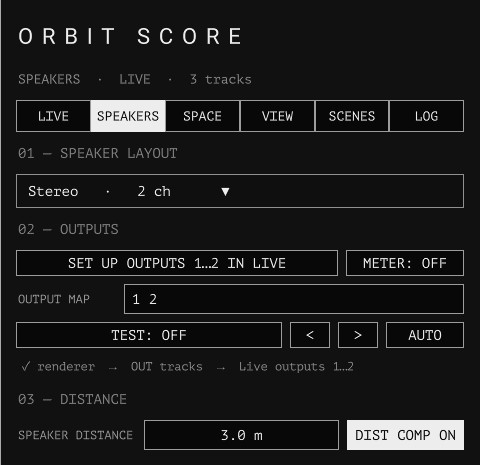
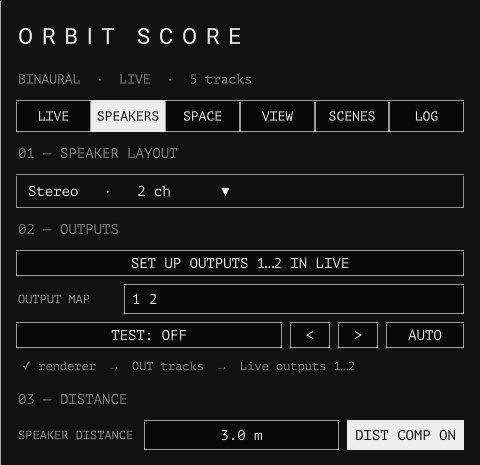
Wiki: drop METER, new SPEAKERS screenshot
Claude-Session: https://claude.ai/code/session_01TKc1CDoWRtRwsAG1rPAYtG

diff --git a/orbitscore-wiki/index.html b/orbitscore-wiki/index.html
@@ -249,7 +249,7 @@ footer{font:11.5px/1.6 var(--f-mono);color:var(--mid);border-top:1px solid var(-
     <div class="card"><div class="k">Windows</div><div class="v">ASIO</div><p>1 · Install the interface's <strong>ASIO driver</strong> (MME / WDM rarely open more than two channels).<br>2 · Live → Settings → Audio: <strong>Driver Type ASIO</strong>, Audio Device = the interface, 48000 Hz.<br>Only one program can open an ASIO device at a time.</p></div>
   </div>
   <p>Then, on both: Live → Settings → Audio → <strong>Output Config</strong>, enable the pairs that cover the speakers (1/2, 3/4 …). Dante (Dante Virtual Soundcard) and MADI systems appear as one device with 64 channels and are chosen the same way; Orbit Score drives up to 64 speakers.</p>
-  <figure><img src="media/ui-speakerout.jpg?v=1111b" alt="Sidebar SPEAKERS tab: 01 SPEAKER LAYOUT, 02 OUTPUTS with SET UP OUTPUTS, METER, OUTPUT MAP, TEST and status, 03 DISTANCE with SPEAKER DISTANCE and DIST COMP" loading="lazy" width="480" height="465" style="max-width:480px"><figcaption>FIG. 1.1 — SPEAKERS tab after SET UP: ✓ renderer → OUT tracks → Live outputs</figcaption></figure>
+  <figure><img src="media/ui-speakerout.jpg?v=1111c" alt="Sidebar SPEAKERS tab: 01 SPEAKER LAYOUT, 02 OUTPUTS with SET UP OUTPUTS, OUTPUT MAP, TEST and status, 03 DISTANCE with SPEAKER DISTANCE and DIST COMP" loading="lazy" width="480" height="465" style="max-width:480px"><figcaption>FIG. 1.1 — SPEAKERS tab after SET UP: ✓ renderer → OUT tracks → Live outputs</figcaption></figure>
   <div class="note"><b>NOTE</b>Live's audio settings cannot be changed through the Live API, so the driver, device, sample rate and Output Config are set by hand once. Everything inside the set — OUT tracks, routing — is done by SET UP OUTPUTS.</div>
   </section>
 </section>
@@ -318,7 +318,7 @@ footer{font:11.5px/1.6 var(--f-mono);color:var(--mid);border-top:1px solid var(-
   <div class="tw"><table>
     <tr><th>Tab</th><th>Contents</th></tr>
     <tr><td>LIVE</td><td><strong>01 MONITOR</strong> Off / Binaural (HP) / Speakers · MASTER volume, MUTE (keeps the slider value) · <strong>02 SOURCE</strong> LIVE / DEMO, Live's DSP state, OSC PORT · <strong>TRACKS</strong> show (eye), name label (Aa), mute (M), colour, level</td></tr>
-    <tr><td>SPEAKERS</td><td><strong>01 SPEAKER LAYOUT</strong> · <strong>02 OUTPUTS</strong> SET UP, METER, OUTPUT MAP, TEST, status · <strong>03 DISTANCE</strong> SPEAKER DISTANCE, DIST COMP (see below)</td></tr>
+    <tr><td>SPEAKERS</td><td><strong>01 SPEAKER LAYOUT</strong> · <strong>02 OUTPUTS</strong> SET UP, OUTPUT MAP, TEST, status · <strong>03 DISTANCE</strong> SPEAKER DISTANCE, DIST COMP (see below)</td></tr>
     <tr><td>SPACE</td><td><strong>01 PANNING MODEL</strong> VBAP / DBAP / AMBI / WFS · <strong>02 ROOM</strong> presets, REVERB, REFLECTIONS, EAR HEIGHT (<a href="#render">06</a>)</td></tr>
     <tr><td>VIEW</td><td><strong>01 CAMERA</strong> auto orbit, reset view, theme · <strong>02 SHOW</strong> names, ears, head, dome guide, ROOM, TRAIL</td></tr>
     <tr><td>SCENES</td><td>The scene list (<a href="#scenes">05</a>)</td></tr>
@@ -339,7 +339,6 @@ footer{font:11.5px/1.6 var(--f-mono);color:var(--mid);border-top:1px solid var(-
     <tr><td>TEST · &lt; · &gt; · AUTO</td><td>Pink noise from one speaker at a time (objects silent meanwhile); the 3D view numbers the speakers</td></tr>
     <tr><td>SPEAKER DISTANCE</td><td>You to the speaker ring in metres — the scale for reflections, Doppler, near field and WFS. Measure it</td></tr>
     <tr><td>DIST COMP</td><td>Speakers at different distances (a measured custom layout): nearer ones are delayed and turned down so all arrive like the farthest. Off in WFS, where the button is PRE-FILTER</td></tr>
-    <tr><td>METER</td><td>Per-speaker levels, only if the feeds also reach a device TouchDesigner can read (<a href="#archive">Archive</a>). Usually off</td></tr>
   </table></div>
 
   <h3>Track colour</h3>
@@ -597,7 +596,7 @@ footer{font:11.5px/1.6 var(--f-mono);color:var(--mid);border-top:1px solid var(-
 <section id="archive">
   <div class="cap">14 — Archive</div>
   <h2>Virtual audio devices (BlackHole · JACK)</h2>
-  <p>Until v9.4 this wiki routed the speaker feeds through a virtual audio device. That is not needed: Live sends them to the interface directly (<a href="#setup-out">01.3</a>). A virtual device is only useful to <strong>test without an interface</strong>, to <strong>hand the feeds to another application</strong>, or for <strong>METER</strong>.</p>
+  <p>Until v9.4 this wiki routed the speaker feeds through a virtual audio device. That is not needed: Live sends them to the interface directly (<a href="#setup-out">01.3</a>). A virtual device is only useful to <strong>test without an interface</strong> or to <strong>hand the feeds to another application</strong>.</p>
   <h3>macOS — BlackHole</h3>
   <ol>
     <li>Install <a href="https://existential.audio/blackhole/" rel="noopener" target="_blank">BlackHole</a> (16 ch; 64 ch for dome layouts).</li>
@@ -721,7 +720,7 @@ footer{font:11.5px/1.6 var(--f-mono);color:var(--mid);border-top:1px solid var(-
     <div class="card"><div class="k">Windows</div><div class="v">ASIO</div><p>1 · 인터페이스의 <strong>ASIO 드라이버</strong> 설치 (MME / WDM은 대개 2채널까지만 열린다).<br>2 · Live → 설정 → Audio: <strong>Driver Type ASIO</strong>, Audio Device = 인터페이스, 48000 Hz.<br>ASIO 장치는 한 번에 한 프로그램만 열 수 있다.</p></div>
   </div>
   <p>그다음 공통: Live → 설정 → Audio → <strong>Output Config</strong>에서 스피커를 덮는 쌍(1/2, 3/4 …)을 켠다. Dante(Dante Virtual Soundcard)나 MADI는 64채널짜리 장치 하나로 보이고 똑같이 고르면 된다. Orbit Score는 스피커 64개까지 구동한다.</p>
-  <figure><img src="media/ui-speakerout.jpg?v=1111b" alt="사이드바 SPEAKERS 탭: 01 SPEAKER LAYOUT, 02 OUTPUTS(SET UP OUTPUTS, METER, OUTPUT MAP, TEST, 상태), 03 DISTANCE(SPEAKER DISTANCE, DIST COMP)" loading="lazy" width="480" height="465" style="max-width:480px"><figcaption>FIG. 1.1 — SET UP 후 SPEAKERS 탭: ✓ renderer → OUT tracks → Live outputs</figcaption></figure>
+  <figure><img src="media/ui-speakerout.jpg?v=1111c" alt="사이드바 SPEAKERS 탭: 01 SPEAKER LAYOUT, 02 OUTPUTS(SET UP OUTPUTS, OUTPUT MAP, TEST, 상태), 03 DISTANCE(SPEAKER DISTANCE, DIST COMP)" loading="lazy" width="480" height="465" style="max-width:480px"><figcaption>FIG. 1.1 — SET UP 후 SPEAKERS 탭: ✓ renderer → OUT tracks → Live outputs</figcaption></figure>
   <div class="note"><b>NOTE</b>Live의 오디오 설정은 Live API로 바꿀 수 없어서 드라이버·장치·샘플레이트·Output Config는 처음 한 번 손으로 맞춘다. 세트 안의 OUT 트랙과 라우팅은 SET UP OUTPUTS가 해준다.</div>
   </section>
 </section>
@@ -790,7 +789,7 @@ footer{font:11.5px/1.6 var(--f-mono);color:var(--mid);border-top:1px solid var(-
   <div class="tw"><table>
     <tr><th>탭</th><th>내용</th></tr>
     <tr><td>LIVE</td><td><strong>01 MONITOR</strong> Off / Binaural (HP) / Speakers · MASTER 볼륨, MUTE (슬라이더 값 유지) · <strong>02 SOURCE</strong> LIVE / DEMO, Live DSP 상태, OSC PORT · <strong>TRACKS</strong> 보이기(눈), 이름표(Aa), 뮤트(M), 색, 레벨</td></tr>
-    <tr><td>SPEAKERS</td><td><strong>01 SPEAKER LAYOUT</strong> · <strong>02 OUTPUTS</strong> SET UP, METER, OUTPUT MAP, TEST, 상태 · <strong>03 DISTANCE</strong> SPEAKER DISTANCE, DIST COMP (아래)</td></tr>
+    <tr><td>SPEAKERS</td><td><strong>01 SPEAKER LAYOUT</strong> · <strong>02 OUTPUTS</strong> SET UP, OUTPUT MAP, TEST, 상태 · <strong>03 DISTANCE</strong> SPEAKER DISTANCE, DIST COMP (아래)</td></tr>
     <tr><td>SPACE</td><td><strong>01 PANNING MODEL</strong> VBAP / DBAP / AMBI / WFS · <strong>02 ROOM</strong> 프리셋, REVERB, REFLECTIONS, EAR HEIGHT (<a href="#ko-render">06</a>)</td></tr>
     <tr><td>VIEW</td><td><strong>01 CAMERA</strong> 자동 궤도, 뷰 리셋, 테마 · <strong>02 SHOW</strong> 이름, 귀, 머리, 돔 가이드, ROOM, TRAIL</td></tr>
     <tr><td>SCENES</td><td>씬 목록 (<a href="#ko-scenes">05</a>)</td></tr>
@@ -811,7 +810,6 @@ footer{font:11.5px/1.6 var(--f-mono);color:var(--mid);border-top:1px solid var(-
     <tr><td>TEST · &lt; · &gt; · AUTO</td><td>스피커 하나씩 핑크 노이즈 (그동안 오브젝트는 무음). 3D 뷰에 스피커 번호가 뜬다</td></tr>
     <tr><td>SPEAKER DISTANCE</td><td>나에서 스피커 링까지 미터 — 반사음, 도플러, 근접 효과, WFS의 기준. 재서 넣자</td></tr>
     <tr><td>DIST COMP</td><td>거리가 제각각인 스피커(실측 Custom 레이아웃): 가까운 스피커를 늦추고 줄여서 모두 가장 먼 스피커처럼 도착하게. WFS에서는 꺼지고 버튼이 PRE-FILTER로 바뀐다</td></tr>
-    <tr><td>METER</td><td>스피커별 레벨. 피드가 TouchDesigner가 읽을 수 있는 장치로도 갈 때만(<a href="#ko-archive">아카이브</a>). 보통은 끔</td></tr>
   </table></div>
 
   <h3>트랙 색</h3>
@@ -1069,7 +1067,7 @@ footer{font:11.5px/1.6 var(--f-mono);color:var(--mid);border-top:1px solid var(-
 <section id="ko-archive">
   <div class="cap">14 — Archive</div>
   <h2>가상 오디오 장치 (BlackHole · JACK)</h2>
-  <p>v9.4 전까지 이 위키는 스피커 피드를 가상 오디오 장치로 보냈다. 이제 필요 없다 — Live가 인터페이스로 바로 보낸다(<a href="#ko-setup-out">01.3</a>). 가상 장치는 <strong>인터페이스 없이 테스트</strong>할 때, <strong>피드를 다른 앱으로 넘길</strong> 때, <strong>METER</strong>를 쓸 때만 쓸모 있다.</p>
+  <p>v9.4 전까지 이 위키는 스피커 피드를 가상 오디오 장치로 보냈다. 이제 필요 없다 — Live가 인터페이스로 바로 보낸다(<a href="#ko-setup-out">01.3</a>). 가상 장치는 <strong>인터페이스 없이 테스트</strong>할 때, <strong>피드를 다른 앱으로 넘길</strong> 때만 쓸모 있다.</p>
   <h3>macOS — BlackHole</h3>
   <ol>
     <li><a href="https://existential.audio/blackhole/" rel="noopener" target="_blank">BlackHole</a> 설치 (16ch, 돔 레이아웃은 64ch).</li>
